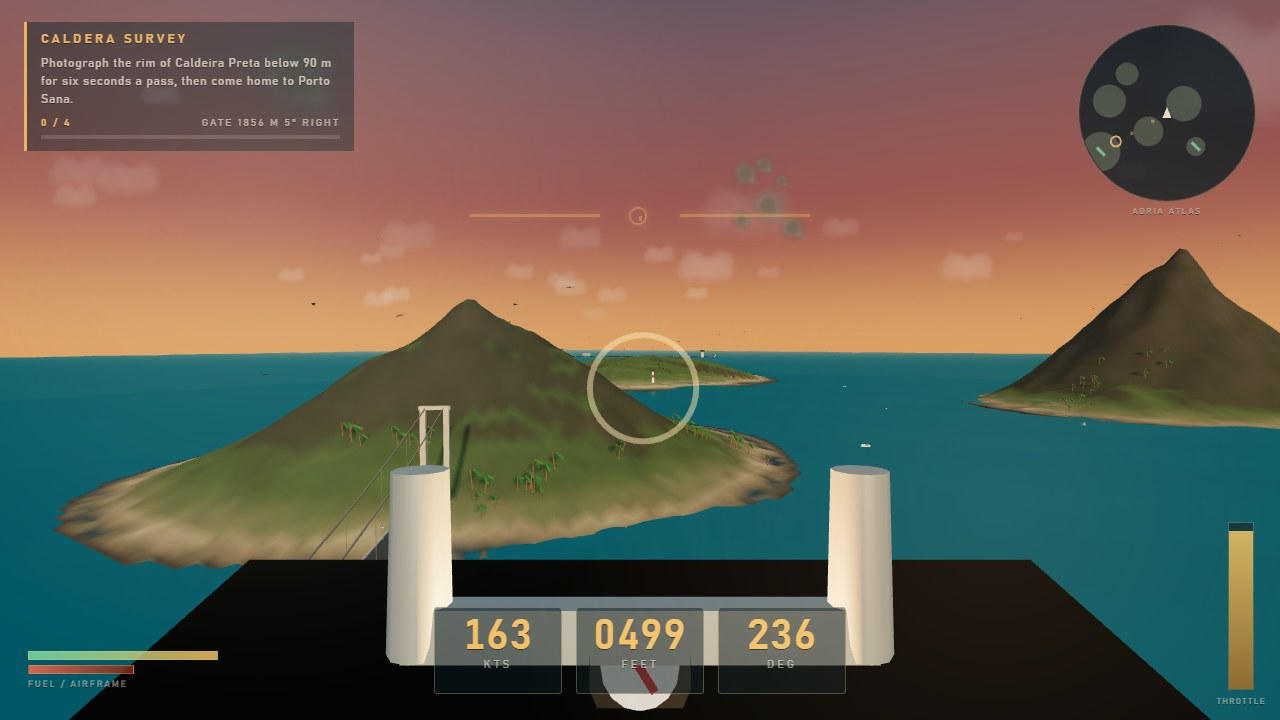
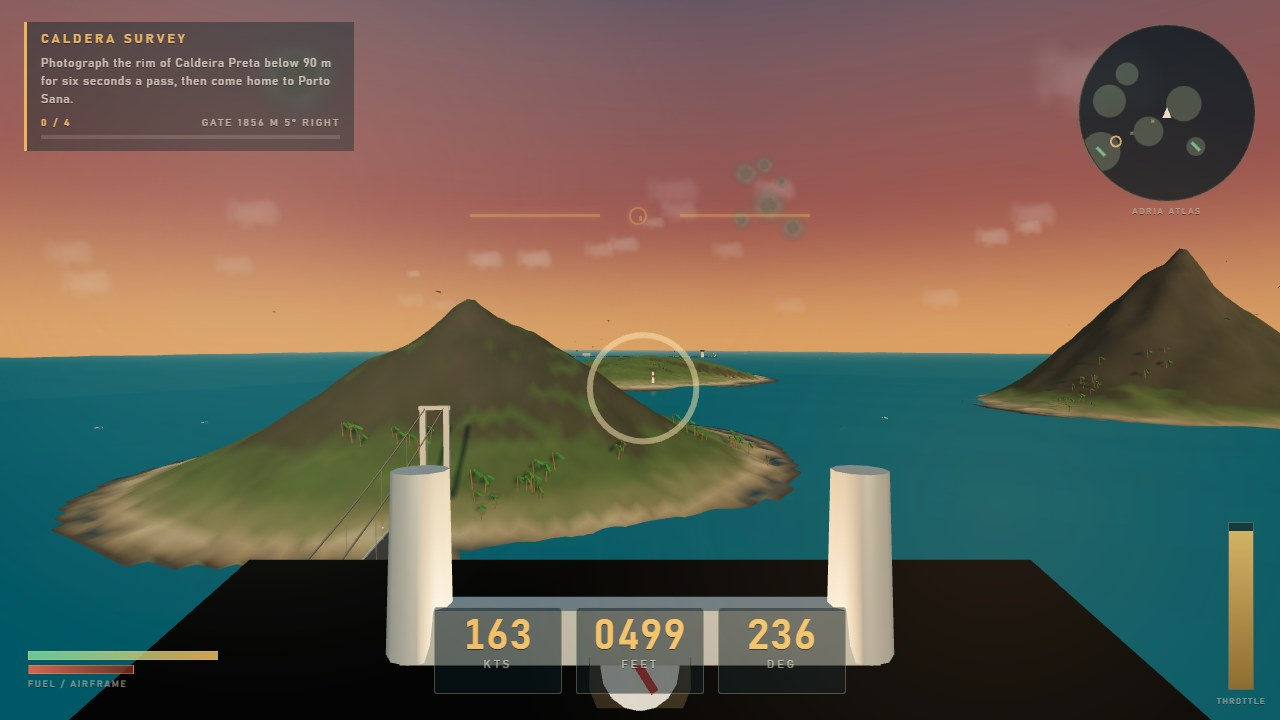
Tighter cover framing, cockpit pulled clear in shot poses

diff --git a/game/src/shots.js b/game/src/shots.js
@@ -36,13 +36,13 @@ export const SHOTS = {
   cover: ({ course }) => {
     const gate = course?.gates[1] ?? course?.gates[0] ?? null;
     if (!gate) return { kind: 'courier' };
-    const from = behindGate(gate, 300, 52);
+    const from = behindGate(gate, 210, 44);
     // Slide the camera off the gate axis so the ring and the aircraft do not sit on top of
     // each other, and the shot reads as a diagonal composition.
     const normal = new THREE.Vector3(0, 0, 1).applyQuaternion(gate.ring.quaternion);
     from.addScaledVector(new THREE.Vector3(normal.z, 0, -normal.x).normalize(), 22);
     const side = new THREE.Vector3(normal.z, 0, -normal.x).normalize();
-    const look = gate.position.clone().add(new THREE.Vector3(0, 26, 0)).addScaledVector(side, -26);
+    const look = gate.position.clone().add(new THREE.Vector3(0, 26, 0)).addScaledVector(side, -78);
     const pose = aim(from, look, { roll: -0.1, pitch: 0.02 });
     return { ...pose, speed: 79, throttle: 0.83, camera: 'chase', kind: 'courier', gate };
   },
